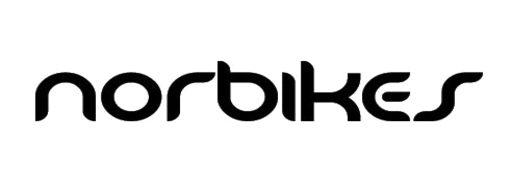
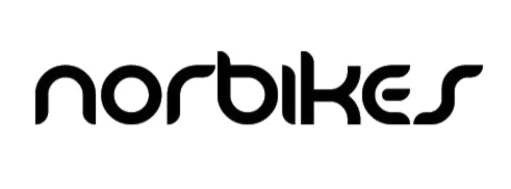
fix some images

diff --git a/src/components/Header/Header.js b/src/components/Header/Header.js
@@ -16,13 +16,15 @@ import Menu from "@material-ui/icons/Menu";
 // core components
 import styles from "../../assets/jss/material/components/headerStyle.js";
 
-import BrandNorbikeTrnasparent from "../../assets/img/brand/norbike_transparent.png"
+import BrandNorbikeTransparent from "../../assets/img/brand/norbike_transparent.png"
+import BrandNorbike from "../../assets/img/brand/norbike_black.png"
 
 const useStyles = makeStyles(styles);
 
 export default function Header(props) {
   const classes = useStyles();
   const [mobileOpen, setMobileOpen] = React.useState(false);
+
   React.useEffect(() => {
     if (props.changeColorOnScroll) {
       window.addEventListener("scroll", headerColorChange);
@@ -55,14 +57,14 @@ export default function Header(props) {
         .classList.remove(classes[changeColorOnScroll.color]);
     }
   };
-  const { color, rightLinks, leftLinks, brand, fixed, absolute } = props;
+  const { color, rightLinks, leftLinks, brand, fixed, absolute, root:isRoot = true } = props;
   const appBarClasses = classNames({
     [classes.appBar]: true,
     [classes[color]]: color,
     [classes.absolute]: absolute,
     [classes.fixed]: fixed
   });
-  const brandComponent = <img src={BrandNorbikeTrnasparent} className={classes.brand}/>;
+  const brandComponent = <img src={isRoot ? BrandNorbikeTransparent : BrandNorbike} className={classes.brand}/>;
   return (
     <AppBar className={appBarClasses}>
       <Toolbar className={classes.container}>

diff --git a/src/views/GridGaleryPage/GridGalleryContainer.js b/src/views/GridGaleryPage/GridGalleryContainer.js
@@ -1,0 +1,27 @@
+import React from 'react'
+import Header from "../../components/Header/Header";
+import{GridList, GridListTile} from "@material-ui/core";
+
+const GridGalleryContainer = (props) => {
+
+    const {category} = useLocation();
+
+    const {data} = useProducts({category: kind})
+
+
+    return (<>
+        <Header root = {false}/>
+        <div className={classes.root}>
+            <GridList cellHeight={160} className={classes.gridList} cols={3}>
+                {tileData.map((tile) => (
+                    <GridListTile key={tile.img} cols={tile.cols || 1}>
+                        <img src={tile.img} alt={tile.title} />
+                    </GridListTile>
+                ))}
+            </GridList>
+        </div>
+    </>)
+}
+
+
+export default GridGalleryContainer;

diff --git a/src/index.js b/src/index.js
@@ -6,6 +6,7 @@ import {Route, Router, Switch} from "react-router-dom";
 import "./assets/scss/material.scss";
 
 import LandingPage from "./views/LandingPage/LandingPage.js";
+import GridGaleryPage from "./views/GridGaleryPage/GridGalleryContainer";
 
 
 const hist = createBrowserHistory();
@@ -13,7 +14,8 @@ const hist = createBrowserHistory();
 ReactDOM.render(
   <Router history={hist}>
     <Switch>
-      <Route path="/" component={LandingPage} />
+      <Route path="/" exact component={LandingPage} />
+      <Route path={"/bikes"} component ={GridGaleryPage} />
     </Switch>
   </Router>,
   document.getElementById("root")

diff --git a/src/components/Footer/Footer.js b/src/components/Footer/Footer.js
@@ -38,7 +38,7 @@ export default function Footer(props) {
                     </List>
                 </div>
                 <div className={classes.right}>
-                    &copy; {1900 + new Date().getYear()}
+                    elangSolutions &copy; {1900 + new Date().getYear()}
                 </div>
             </div>
         </footer>
